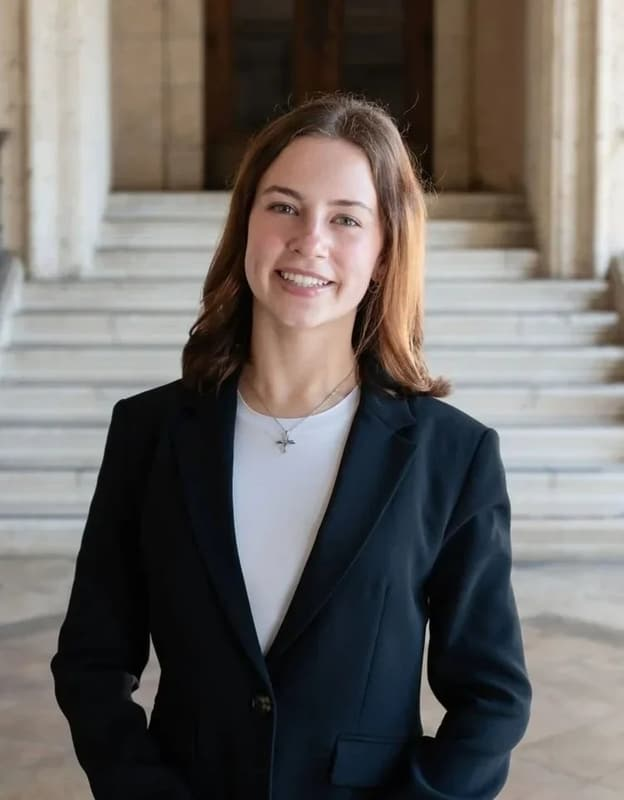
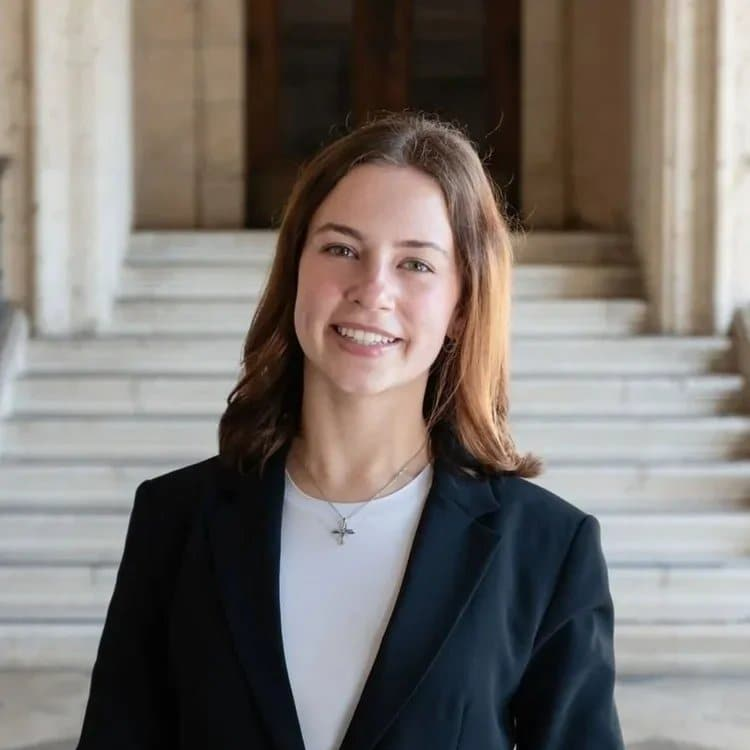
Give Daniel Chen his headshot, square-crop the officer grid, hide LinkedIn
Three officer-content follow-ups, two of which turned up bugs in code that
had already shipped.

The shared-photograph question is answered. lib/officers.ts had said Daniel
Chen and Sanya Pillai would both keep placeholders because the saved page
showed one image file on both cards, with an empty alt and an identical uuid.
The officer settled it by renaming that file to `daniel chen` in the export —
an attribution that could only come from someone who knows, which is exactly
what the rule was waiting for. Sanya Pillai keeps her placeholder because the
question is now CLOSED and the answer is that the photograph is not hers; the
entry says so, so nobody later "fixes" it by copying his onto her card.

Officer headshots were being cropped by CSS from the geometric centre and
nobody had looked. OfficerCard renders aspect-square while the pipeline
emitted whatever aspect the source had, so object-cover did the cropping —
from the middle, which on a portrait headshot lands on the chest. Cropping
moved into build-photos.mjs so the file is the frame.

Two bugs found while doing it, both caught by checking rather than looking:

- `withoutEnlargement: true` silently defeats `fit: "cover"`. Ask for 800x800
  cover from a 385x532 source with enlargement forbidden and sharp skips the
  resize entirely, so six of twelve headshots came out non-square, uncropped,
  and straight back to being centre-cropped by the card. karthik-kasa.jpg was
[…]

diff --git a/lib/officers.ts b/lib/officers.ts
@@ -39,6 +39,27 @@ export type Officer = {
   photo?: string;
 };
 
+/**
+ * 🔓 **TEMPORARY (officer, 2026-08-23): every per-officer LinkedIn link is
+ * HIDDEN.** Flip this to `true` to bring them all back — that is the whole of
+ * it, and it is the only switch.
+ *
+ * 📌 **The URLs are deliberately still in the data below.** Hiding is a render
+ * decision; deleting seven real profile URLs would mean re-sourcing them from
+ * a page that, as the note above records, no longer carries per-officer links
+ * at all. Nothing is lost while this is off.
+ *
+ * 🪤 **Layout is already safe either way.** `OfficerCard` has always rendered
+ * the link conditionally — six of thirteen officers never had one — and it
+ * carries a `mt-auto` spacer precisely so a card without a link keeps the same
+ * shape. Turning every link off exercises a path that was already live on
+ * nearly half the grid.
+ *
+ * 📌 MISA's OWN LinkedIn (the company page in `lib/site.ts`, linked from the
+ * footer) is untouched. This is about individual people's profiles.
+ */
+export const SHOW_OFFICER_LINKEDIN = false;
+
 export const OFFICERS: Officer[] = [
   {
     name: "Labeeb Kibria",
@@ -70,21 +91,25 @@ export const OFFICERS: Officer[] = [
     linkedin: "https://www.linkedin.com/in/averywiley/",
     photo: "/photos/officers/avery-wiley.jpg",
   },
-  // 🔴 **NO PHOTO, DELIBERATELY — and this is the one entry to read before
-  // "fixing" it.** The saved page shows the SAME image file
-  // (`headshot+updated.JPG`, one asset referenced twice) on both Daniel Chen's
-  // card and Sanya Pillai's. One of those two is right and the source gives no
-  // way to tell which: the alt text is empty, the uuid is identical, and there
-  // is no third photograph of either person. Shipping it under both names would
-  // put a real student's face under another real student's name, which is the
-  // exact failure this file has been written against since it was created — so
-  // both render the labelled placeholder until an officer says whose it is.
+  // ✅ **RESOLVED 2026-08-23 BY THE OFFICER, and the way it was resolved is the
+  // point.** The saved page showed the SAME image file (`headshot+updated.JPG`,
+  // one asset referenced twice) on both this card and Sanya Pillai's, with an
+  // empty alt and an identical uuid — so the source could not say which of the
+  // two it was, and both rendered the placeholder rather than risk putting a
+  // real student's face under another real student's name.
   //
-  // 📌 Fixing it is two lines: copy
-  // `pictures/Officers — …_files/headshot+updated.JPG` to
-  // `pictures/officers/<name-slug>.JPG`, run `node scripts/build-photos.mjs`,
-  // and add the `photo` key to whichever of the two it belongs to.
-  { name: "Daniel Chen", role: "Logistics Director" },
+  // The officer settled it out of band, by renaming the file to `daniel chen`
+  // in the saved export. That is the attribution the rule was waiting for: it
+  // did not come from the page, it came from someone who knows.
+  //
+  // 🔴 **Which means Sanya Pillai keeps her placeholder, and NOT because the
+  // question is still open.** It is now answered, and the answer is that this
+  // photograph is not hers. Do not copy it onto her entry.
+  {
+    name: "Daniel Chen",
+    role: "Logistics Director",
+    photo: "/photos/officers/daniel-chen.jpg",
+  },
   {
     name: "Shreya Venkatachalam",
     role: "Special Events Director",
@@ -112,7 +137,12 @@ export const OFFICERS: Officer[] = [
     role: "Social Director",
     photo: "/photos/officers/lucas-san-jose.jpg",
   },
-  // 🔴 See the Daniel Chen note above — same shared photograph, same reason.
+  // 🔴 **NO PHOTO, and the reason CHANGED on 2026-08-23 — read the Daniel Chen
+  // note above.** The one photograph that ever appeared on this card is the
+  // shared file the officer has now attributed to him. She has no photograph in
+  // the source at all, so the placeholder is the correct rendering rather than
+  // an unresolved question. Supplying one means adding a real file to
+  // `pictures/officers/sanya-pillai.<ext>`, not reusing his.
   { name: "Sanya Pillai", role: "Academic Director" },
   {
     name: "Kayana Rajan",

diff --git a/components/ui/officer-card.tsx b/components/ui/officer-card.tsx
@@ -1,6 +1,6 @@
 import { PhotoSlot } from "@/components/ui/photo-slot";
 
-import type { Officer } from "@/lib/officers";
+import { SHOW_OFFICER_LINKEDIN, type Officer } from "@/lib/officers";
 import type { ImageSlot } from "@/lib/site";
 
 // One officer. Every card is identical — there is no separate exec-board
@@ -11,7 +11,7 @@ import type { ImageSlot } from "@/lib/site";
 // a role title wraps to.
 //
 // 🔓 **The headshot goes through `PhotoSlot` as of v2 phase 2**, and as of
-// 2026-08-23 it actually carries a photograph for eleven of the thirteen.
+// 2026-08-23 it actually carries a photograph for twelve of the thirteen.
 //
 // 🔓 **The rule that kept these blank is SATISFIED, not waived.** It was never
 // "no faces on officer cards" — it was that the design handoff shipped headshots
@@ -85,7 +85,10 @@ export function OfficerCard({ officer }: { officer: Officer }) {
             see the note in `lib/officers.ts` for why six of thirteen have
             none and why a plausible-looking URL is not an acceptable filler. */}
         <div className="mt-auto" />
-        {officer.linkedin && (
+        {/* 🔓 Gated by SHOW_OFFICER_LINKEDIN, which is OFF (officer, 2026-08-23).
+            The flag lives in lib/officers.ts beside the URLs it hides, and the
+            URLs are still there — see the note on the constant. */}
+        {SHOW_OFFICER_LINKEDIN && officer.linkedin && (
           <a
             href={officer.linkedin}
             target="_blank"

diff --git a/CLAUDE.md b/CLAUDE.md
@@ -37,7 +37,7 @@ What exists, in one pass:
 - **Officer turnover** — officers are added by an expiring single-use invite link from `/admin/officers` (migrations 24–25), not by running `scripts/create-officer.mjs` with the production service key. The script stays as the bootstrap and recovery path. Nothing is emailed; the officer copies the link and sends it themselves.
 - **Stage 8** hardened the boundary (migration 22 closed a live hole where any signed-up user could read every member's name, EID and email), added the attendance and adjustment archives (migration 23), and fixed the empty-vs-error conflation across `lib/` and every detail page.
 
-🖼 **Photographs ARE COMMITTED and they ship (officer decision, 2026-08-19).** `public/photos/` holds 141 tracked web-sized images, live on the home page and — since v2 phase 2 — on `/about`, `/contact` and `/gallery`, plus the project cells and 11 officer headshots since 2026-08-23. `pictures/` (the officer's raw library) stays gitignored and nothing serves from it. 🔴 **The irreversible half:** the repository is public and every one is an identifiable student, so a removal request is a git history rewrite and a force-push, not a delete, and even that does not reach forks or caches. ⚠ **`public/photos/projects/` (4 files, added 2026-08-23) is the one set that is NOT students** — they are the clients' own premises and staff, and the same irreversibility applies to those faces with none of the club's consent behind them. Two of the four are live; `cap-metro.jpg` and `chicago-crime.jpg` are built and unreferenced. Workflow and traps: `docs/build-log.md`; the scripts are `scripts/organise-pictures.mjs` and `scripts/build-photos.mjs`. 🪤 HEIC needs `heic-convert` — libvips does AVIF only, and `.metadata()` succeeds on a file that cannot be decoded.
+🖼 **Photographs ARE COMMITTED and they ship (officer decision, 2026-08-19).** `public/photos/` holds 142 tracked web-sized images, live on the home page and — since v2 phase 2 — on `/about`, `/contact` and `/gallery`, plus the project cells and 12 officer headshots since 2026-08-23. `pictures/` (the officer's raw library) stays gitignored and nothing serves from it. 🔴 **The irreversible half:** the repository is public and every one is an identifiable student, so a removal request is a git history rewrite and a force-push, not a delete, and even that does not reach forks or caches. ⚠ **`public/photos/projects/` (4 files, added 2026-08-23) is the one set that is NOT students** — they are the clients' own premises and staff, and the same irreversibility applies to those faces with none of the club's consent behind them. Two of the four are live; `cap-metro.jpg` and `chicago-crime.jpg` are built and unreferenced. Workflow and traps: `docs/build-log.md`; the scripts are `scripts/organise-pictures.mjs` and `scripts/build-photos.mjs`. 🪤 HEIC needs `heic-convert` — libvips does AVIF only, and `.metadata()` succeeds on a file that cannot be decoded.
 
 🧹 **PRODUCTION IS EMPTY AND IS NO LONGER THE SEED (2026-08-19).** It was wiped by `bash scripts/wipe-remote.sh` ahead of the real Fall 2026 schedule being entered, so the Stage 9 "clear production before launch" item is **done**. Current state: **0 members / 0 events / 0 attendance / 0 adjustments / 0 dues / 0 field definitions / 0 presets**, both views empty, `app_settings.current_term` still unpinned (derives `Fall 2026`). What survived, deliberately: the **three real officer logins** (`auth.users` + `admin_profiles`, roles intact), all **4 `officer_invites`**, and the **8 `admin_audit` rows whose `entity_type` is `officer_invite` or `officer`** — the record of who was granted access and by whom. The other 13 audit rows, which described the wiped test data, were deleted.
 
@@ -256,8 +256,10 @@ Decisions the architecture doc argues for at length. **Don't quietly reverse one
 - 🔓 **The scroll reveal's revealed state is `clip-path: none`, NOT `inset(0 0 0 0)`, and the difference is a shipped defect.** `inset(0 0 0 0)` looks like "no clip" and is not — it is "clip to my own axis-aligned border box", and a clip-path clips DESCENDANTS. Harmless for ordinary content; a hard cut for a child that sticks out of its parent's box, which a **rotated** child always does. The hero's tilted plates were sliced across all four corners by the reveal wrapper around them, so they rendered as irregular polygons and their frame was cut with them. ⚠ **`wipe` is the one variant that must keep an `inset()`**, because it animates `clip-path` and `none` is not interpolable from `inset(0 100% 0 0)` — it carries its own `[data-reveal="wipe"][data-revealed]` rule. 🪤 **A plate that looks unframed is this bug, not a border bug** — the `border` on `.plate` is correct and was innocent. Look for what is clipping the plate before reaching for an outline or an inset shadow.
 - 🪤 **Global CSS must live inside a Tailwind cascade layer.** v4's `@import "tailwindcss"` emits utilities into `@layer utilities`, and an **unlayered rule beats every layered one regardless of specificity** — a bare `a { color: … }` overrode `text-white` on every link and rendered the header's Check In button navy-on-navy. Element defaults go in `@layer base`, decorative classes in `@layer components`.
 - 🪤 **The scroll reveal's hidden state is scoped to `html.js`**, a class an inline script in `app/layout.tsx` sets during HTML parsing. Without the scoping a visitor with JavaScript off gets a blank page; without the inline script (an effect instead) the content paints and then blanks. `components/ui/reveal.tsx` is the **server-safe** half and must never gain `"use client"` — the observer is the separate `reveal-observer.tsx`, mounted once in the public layout so animated sections stay Server Components.
-- 🔓 **THE NO-PHOTOGRAPHY RULE IS LIFTED, CONDITIONALLY** (2026-08-18/19). Its premise was factual, not aesthetic — the organization had not taken the photographs — and the fact changed. Real photographs are **committed and live** on the home page, `/about`, `/contact`, `/gallery` and — since 2026-08-23 — the project cells on the home page and `/projects`. 🔴 **The repository is public and a face in its history cannot be taken back by a later commit**, which is the part that still binds. What replaces the rule is narrower: **a slot renders a photograph or a labelled `<Hatch>`, never a hole**, and `components/ui/photo-slot.tsx` is the single place that swap happens. 🔓 **Officer headshots landed 2026-08-23, for ELEVEN of the thirteen, and the rule was SATISFIED rather than waived.** The objection was never "no faces on officer cards" — it was that the handoff shipped headshots while recording that the photo-to-name pairing was never supplied. The officer supplied it, from the live site's own officers page; `lib/officers.ts` documents that the pairing was read off that page's **CSS grid geometry** rather than its DOM order, because a Squarespace fluid-engine grid orders blocks by position and not by document order. 🔴 **Two cards still render `<Hatch>` and that is deliberate**: the source page shows ONE image file on both Daniel Chen's card and Sanya Pillai's, and nothing attributes it — shipping it twice would put a real student's face under another real student's name. 🔓 **Project cells got photographs the same way, and the distinction is the useful part**: the objection was pairing a *MISA* photograph to a named client. The two that shipped are photographs **of the client** — a PepsiCo campus sign, the Casa de Luz kitchen — where the pairing is the subject rather than a claim laid over it. CapMetro has no photograph and still renders its `<Hatch>`.
-- 🔓 **The officer-headshot rule was SATISFIED on 2026-08-23, and the shape of it still binds.** It was a second, independent reason: even with photography restored, the handoff's own README flagged its headshots' photo-to-name pairing as never supplied, and a real face against another real student's name is worse than an empty labelled square. The officer then supplied the pairing, so 11 of 13 cards carry a photograph. ⚠ **What the rule leaves behind is the test, not the outcome: a headshot ships only when something ATTRIBUTES it.** `Officer.photo` is optional for exactly that reason — the two officers who share one unattributable image file on the source page still render `<Hatch>`, and that is the rule working rather than a gap.
+- 🔓 **THE NO-PHOTOGRAPHY RULE IS LIFTED, CONDITIONALLY** (2026-08-18/19). Its premise was factual, not aesthetic — the organization had not taken the photographs — and the fact changed. Real photographs are **committed and live** on the home page, `/about`, `/contact`, `/gallery` and — since 2026-08-23 — the project cells on the home page and `/projects`. 🔴 **The repository is public and a face in its history cannot be taken back by a later commit**, which is the part that still binds. What replaces the rule is narrower: **a slot renders a photograph or a labelled `<Hatch>`, never a hole**, and `components/ui/photo-slot.tsx` is the single place that swap happens. 🔓 **Officer headshots landed 2026-08-23, for TWELVE of the thirteen, and the rule was SATISFIED rather than waived.** The objection was never "no faces on officer cards" — it was that the handoff shipped headshots while recording that the photo-to-name pairing was never supplied. The officer supplied it, from the live site's own officers page; `lib/officers.ts` documents that the pairing was read off that page's **CSS grid geometry** rather than its DOM order, because a Squarespace fluid-engine grid orders blocks by position and not by document order. 🔴 **ONE card still renders `<Hatch>` and that is deliberate**: the source page showed ONE image file on both Daniel Chen's card and Sanya Pillai's and nothing attributed it, so both waited. The officer attributed it to Daniel Chen on 2026-08-23 by renaming the file in the saved export — which is exactly the attribution the rule was waiting for, and it did not come from the page. ⚠ **Sanya Pillai keeps her placeholder because the question is ANSWERED, not because it is open**: that photograph is not hers, and it must never be copied onto her entry. 🔓 **Project cells got photographs the same way, and the distinction is the useful part**: the objection was pairing a *MISA* photograph to a named client. The two that shipped are photographs **of the client** — a PepsiCo campus sign, the Casa de Luz kitchen — where the pairing is the subject rather than a claim laid over it. CapMetro has no photograph and still renders its `<Hatch>`.
+- ✂ **Per-officer LinkedIn links are HIDDEN, temporarily** (officer, 2026-08-23). One switch: `SHOW_OFFICER_LINKEDIN` in `lib/officers.ts`, read by `OfficerCard` and nothing else. 📌 **The seven URLs stay in the data** — hiding is a render decision, and deleting them would mean re-sourcing profiles from a page that no longer carries per-officer links at all. 🪤 Layout is safe either way: the card has always rendered the link conditionally, because six of thirteen officers never had one, and its `mt-auto` spacer exists so a link-less card keeps its shape. 📌 **MISA's own company page in the footer is untouched** — this is about individual people.
+- 🪤 **Officer headshots are cropped SQUARE BY THE PIPELINE, not by the card.** `OfficerCard` renders `ratio="aspect-square"`, so a non-square file was already being cropped — by CSS `object-cover`, from the geometric centre, which on a portrait headshot lands on the chest and takes the top of the head off. `scripts/build-photos.mjs` crops them with `position: "north"` so the file IS the frame. 🔴 **`north` was chosen by comparing it against sharp's `attention` strategy on all twelve at once, not from first principles** — attention repeatedly picked a bright background over the face and sliced the tops off two heads. **Neither is a face detector**, so a subject who is off-centre in their source photograph stays off-centre; that is a source problem, not a setting to tune. ⚠ **`withoutEnlargement` silently defeats `fit: "cover"`** — ask for 800×800 cover from a 385×532 source with enlargement forbidden and sharp skips the resize entirely, so the output is neither square nor cropped and looks fine in `ls`. The square edge is computed per image instead: `min(width, height, max)`.
+- 🔓 **The officer-headshot rule was SATISFIED on 2026-08-23, and the shape of it still binds.** It was a second, independent reason: even with photography restored, the handoff's own README flagged its headshots' photo-to-name pairing as never supplied, and a real face against another real student's name is worse than an empty labelled square. The officer then supplied the pairing, so 12 of 13 cards carry a photograph. ⚠ **What the rule leaves behind is the test, not the outcome: a headshot ships only when something ATTRIBUTES it.** `Officer.photo` is optional for exactly that reason — and the shared file that blocked two cards was attributed to Daniel Chen out of band on 2026-08-23, which left Sanya Pillai with no photograph of her own rather than with an open question.
 - 🪤 **When photography returns, size framed slots with next/image's `fill`.** An intrinsically sized `<img>` makes the frame grow to the photo's own height, and the About history portrait then leaves a large void beside the column next to it — the handoff hit this in its own prototype. The gallery masonry is the one place that wants intrinsic heights.
 - ✂ **`GALLERY_ITEMS`, `GALLERY_FILTERS`, `GALLERY_FEATURE` and `GALLERY_TERM` were DELETED in v2 phase 2**, along with the `Slot` and `GalleryCategory` types. Between them they asserted a term, a date and a taxonomy nobody supplied, and the gallery's one control sorted on the invented one. `/gallery` reads the real pool instead. 🔴 **Do not reintroduce a category filter without a real file-to-category mapping** — inventing one is the same failure wearing a filter bar.
 - 🪤 **A marquee needs enough copies to cover the VIEWPORT, and "duplicate twice, translate ‑50%" only does that when one group is wider than the screen.** Neither home-page track is: measured at a 1646px viewport, the groups are 1360px and 1272px, so each cycle ended with ~300px of bare ground and a snap. **The translate distance is one group width in pixels** (`--marquee-shift`, computed by the component), never a percentage — a percentage silently couples the distance to the copy count. Copies come from `Math.ceil(MAX_VIEWPORT / groupWidth) + 1`; `MAX_VIEWPORT` (4000) is a **real ceiling**, not a margin, and is documented at its definition. 📌 No pause on hover: the tracks are full-width, so a resting mouse froze a row and read as breakage. 📌 **The band's navy ground was removed on request (2026-08-15)** — the tiles are `Hatch`'s **light** tone, the "See all photos" link is navy, and the section carries no `.on-navy`. Those move together with the background, per the never-mixed rule. 🔓 **Since 2026-08-19 the band sits on the flat grey PAGE ground and carries nothing but the strip.** Two things were tried and reversed the same day: an explicit white band behind the tiles, and a "See all photos" card riding the top band. `/gallery` is in the header nav, which is where a destination present on every page belongs. 📌 **Every seam around a band is 64px at desktop**, and the bottom band's `padBottom` is a step larger (`md`) than its `padTop` for a structural reason: below it the navy Projects field starts immediately, so there is no light neighbour to contribute the other 32px.
@@ -452,7 +454,7 @@ lib/
                         restore path are written down
   officers.ts           officer roster — REPLACED WHOLESALE 2026-08-23 from the
                         officer's saved copy of the live page. 🔓 `photo` and
-                        `linkedin` are BOTH optional now: 11 of 13 have a
+                        `linkedin` are BOTH optional now: 12 of 13 have a
                         headshot (two share one file on the source page and
                         neither can be attributed), and only the 7 returning
                         officers have a LinkedIn, because the new page carries

diff --git a/docs/build-log.md b/docs/build-log.md
@@ -7,6 +7,15 @@ Reading order is newest first, matching how it accumulated. `CLAUDE.md` carries 
 ---
 
 
+✅ **Daniel Chen's headshot, a square-crop fix, and LinkedIn hidden (2026-08-23).** Three small follow-ups to the officer-content commit, and two of them found bugs.
+
+  - ✅ **The shared-photograph question is ANSWERED, and the way it was answered is the point.** `lib/officers.ts` had said both Daniel Chen and Sanya Pillai would keep their placeholders because the saved page showed one image file on both cards with an empty alt and an identical uuid. The officer settled it out of band by **renaming the file to `daniel chen` in the saved export** — an attribution that could not come from the page, only from someone who knows. 🔴 **Sanya Pillai keeps her placeholder because the question is now closed, not because it is open**: that photograph is not hers, and the entry says so explicitly to stop a future reader "fixing" it by copying his.
+  - 🐛 **Officer headshots were being cropped by CSS from the geometric centre, and nobody had looked.** `OfficerCard` renders `ratio="aspect-square"` while the pipeline emitted whatever aspect the source had, so `object-cover` did the cropping — from the middle, which on a portrait headshot lands on the chest. Cropping moved into `scripts/build-photos.mjs` so the file is the frame.
+  - 🐛 **The first fix shipped a worse bug for an hour: `withoutEnlargement: true` silently defeats `fit: "cover"`.** Asking for 800×800 cover from a 385×532 source with enlargement forbidden makes sharp skip the resize *entirely* — so six of twelve headshots came out at their original non-square dimensions, were never cropped, and went straight back to being centre-cropped by the card. **`karthik-kasa.jpg` was 221×376.** It looked plausible in `ls` and was wrong on screen; a metadata check across all twelve is what caught it. The square edge is now computed per image as `min(width, height, max)`.
+  - 🔬 **`north` beat sharp's `attention` strategy, and only a side-by-side of all twelve showed it.** Attention is documented as favouring edges and skin tones, which sounds like it should find a face; on these files it repeatedly locked onto a bright background and **sliced the tops off Karthik Kasa's and Labeeb Kibria's heads** — the worst thing this crop can do. `north` cannot make that mistake, because a headshot puts the head at the top by construction. 📌 **What it gives up, stated rather than hidden:** it centres horizontally, so Trisha Botcha and Romana Qureshi stay off to one side. Neither strategy is a face detector and no tuning here will centre a head the source did not centre. ⚠ A skin-tone heuristic was considered and rejected — tuned on one complexion it would systematically mis-frame darker-skinned officers, which is a worse failure than an off-centre crop.
+  - ⚠ **Two headshots are below 2× for their cell and stay that way**: `karthik-kasa` at 221px and `labeeb-kibria` at 385px against a 252 CSS px cell. Upscaling would invent detail; the honest fix is a better source file.
+  - ✂ **Per-officer LinkedIn links hidden** behind `SHOW_OFFICER_LINKEDIN` in `lib/officers.ts`. The URLs stay in the data — hiding is a render decision, and the page they came from no longer carries per-officer links to re-source from. MISA's own company page in the footer is untouched.
+
 **Stages 0–5 complete. ✅ Stage 6, 6.5, 7 and 8 are COMPLETE. Stage 8 closed 2026-08-10 (doc v1.54) with phase 3. Stage 9 (launch) is IN PROGRESS — production was cleared of the seed on 2026-08-19.**
 
 ✅ **v2 PHASE 2 BUILT — the five content pages, rebuilt from the home page (2026-08-19).** `/about`, `/projects`, `/gallery`, `/officers`, `/contact`, plus the error and not-found boundaries. 🌿 **On the branch `v2-phase-2`, not on `main`** — 2 ahead, 0 behind, a fast-forward when the officer wants it.

diff --git a/DESIGN.md b/DESIGN.md
@@ -574,7 +574,7 @@ Real photographs are live on the home page **locally only**.
   handoff shipped headshots while recording that the photo-to-name pairing "was
   never supplied", and a real face against another student's name is worse than
   an empty labelled square. The officer supplied the pairing, off the live site's
-  own officers page. 🔴 **Two cards still render `<Hatch>` on purpose** — that
+  own officers page. 🔴 **One card still renders `<Hatch>` on purpose** — that
   page shows one image file on two officers' cards and nothing attributes it. So
   `Officer.photo` is OPTIONAL and the fallback is load-bearing: a card that could
   only draw a photograph would have forced a guess there.

diff --git a/docs/student-org-website-architecture.md b/docs/student-org-website-architecture.md
@@ -11,7 +11,7 @@
 > **The roster** is replaced wholesale from the officer's saved copy of the live
 > page — a full turnover, with two new roles (**Client Project Lead**, **Data
 > Project Lead**) replacing Project Vice President and Junior Director Vice
-> President. 🔓 **Officer headshots ship for eleven of the thirteen**, which
+> President. 🔓 **Officer headshots ship for twelve of the thirteen**, which
 > satisfies the rule that kept them blank rather than waiving it: the objection
 > was that the photo-to-name pairing had never been supplied, and it now has
 > been. 🪤 That pairing was read off the saved page's **CSS grid geometry**, not
